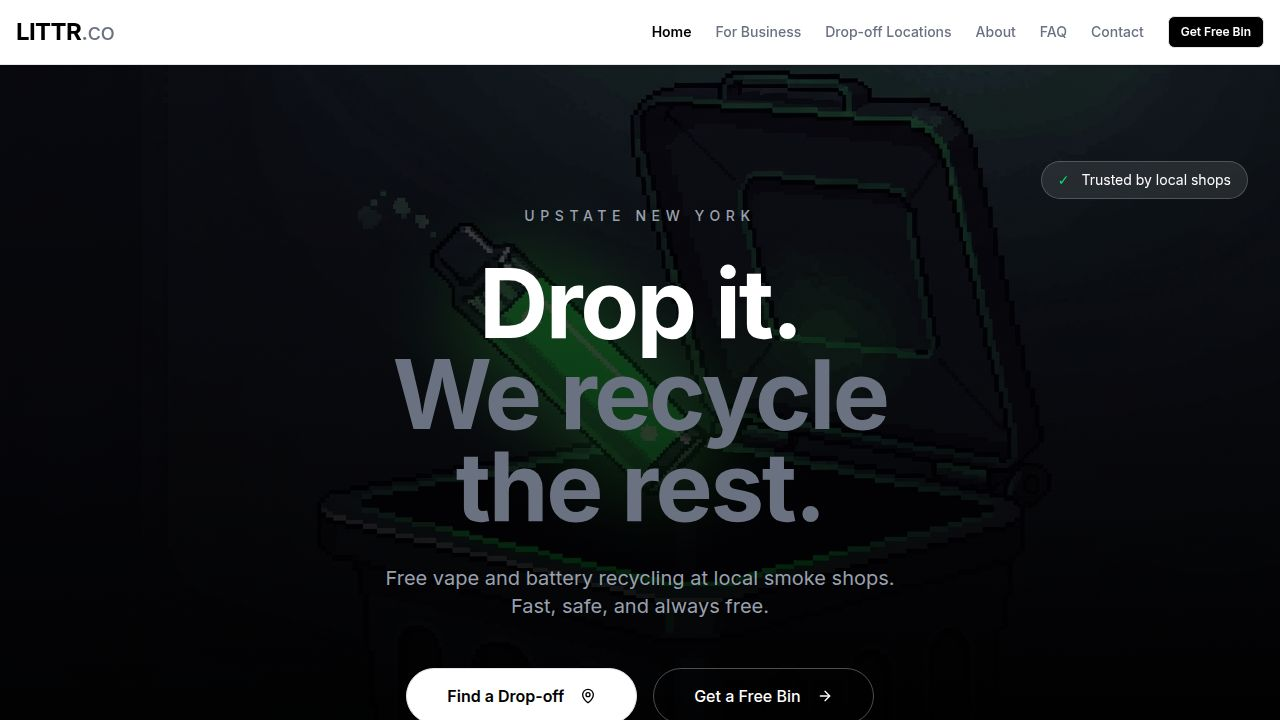
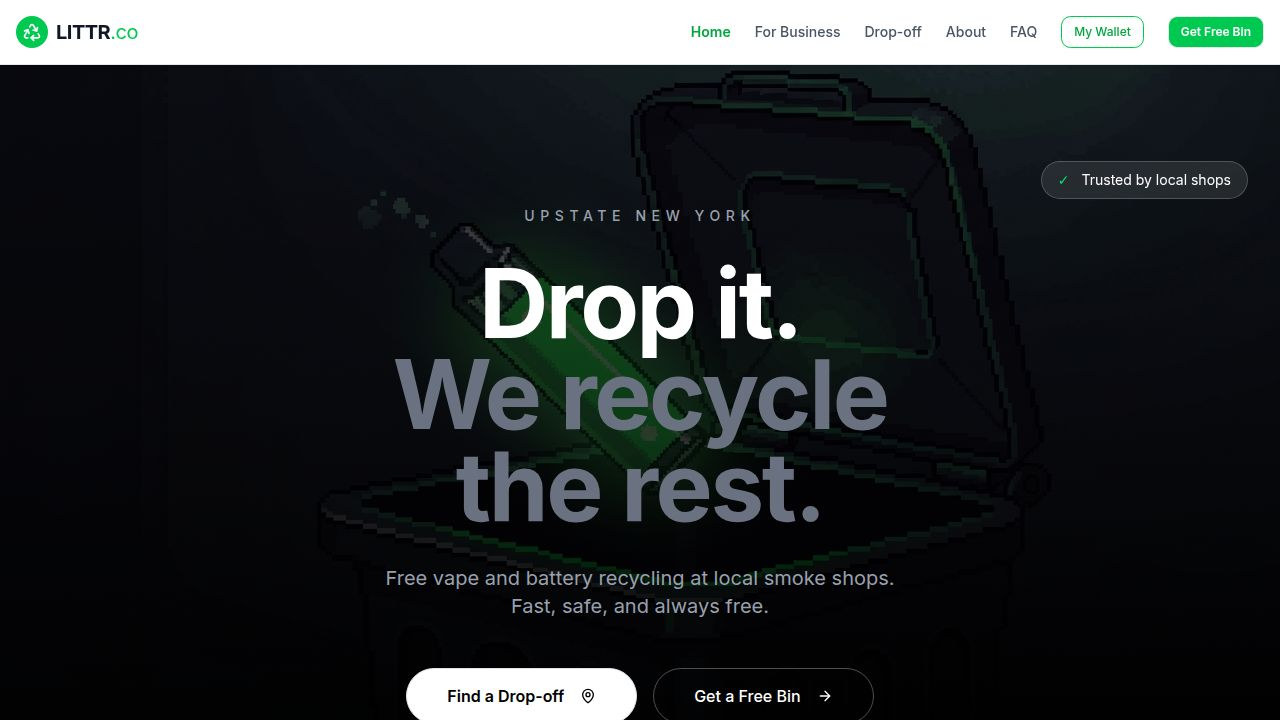
Update shop information and improve dark mode styling across dashboards
Adjusted partner shop addresses, refined dark mode color schemes for staff and partner dashboards, and optimized the customer dashboard layout and points display.

Replit-Commit-Author: Agent
Replit-Commit-Session-Id: 6dbdc73e-507c-4d33-bb99-c521a1415f4b
Replit-Commit-Checkpoint-Type: intermediate_checkpoint
Replit-Commit-Event-Id: 8e2d9b1c-44c5-4e55-bf79-a29e270138a3
Replit-Commit-Screenshot-Url: https://storage.googleapis.com/screenshot-production-us-central1/90d26e03-2b98-43a8-bfaa-7dcc5fa7786a/6dbdc73e-507c-4d33-bb99-c521a1415f4b/kMcwf72
Replit-Helium-Checkpoint-Created: true

Changed region(s): [[0.5, 0.0, 1.0, 0.0917], [0.0, 0.0, 0.125, 0.0611]]

diff --git a/client/src/pages/partner/Dashboard.tsx b/client/src/pages/partner/Dashboard.tsx
@@ -268,9 +268,9 @@ export default function PartnerDashboard() {
           <TabsContent value="bins">
             <div className="space-y-4">
               {shopFireAlerts.filter((a: any) => !a.resolvedAt).length > 0 && (
-                <Card className="border-red-500 bg-red-50">
+                <Card className="border-red-500 !bg-red-900/30">
                   <CardHeader>
-                    <CardTitle className="flex items-center gap-2 text-red-700">
+                    <CardTitle className="flex items-center gap-2 text-red-400">
                       <Flame className="h-5 w-5 animate-pulse" />
                       Fire Alerts
                     </CardTitle>
@@ -281,21 +281,21 @@ export default function PartnerDashboard() {
                         <div 
                           key={alert.id} 
                           className={`p-3 rounded-lg ${
-                            alert.severity === 'CRITICAL' ? 'bg-red-100 border border-red-500' :
-                            alert.severity === 'HIGH' ? 'bg-red-100 border border-red-400' :
-                            'bg-orange-100 border border-orange-400'
+                            alert.severity === 'CRITICAL' ? 'bg-red-900/50 border border-red-500' :
+                            alert.severity === 'HIGH' ? 'bg-red-900/40 border border-red-400' :
+                            'bg-orange-900/40 border border-orange-400'
                           }`}
                           data-testid={`partner-fire-alert-${alert.id}`}
                         >
                           <div className="flex items-center gap-2">
-                            <AlertTriangle className="h-5 w-5 text-red-600" />
+                            <AlertTriangle className="h-5 w-5 text-red-400" />
                             <Badge variant="destructive">{alert.severity}</Badge>
-                            <span className="font-medium">{alert.bin?.name || `Bin #${alert.binId}`}</span>
+                            <span className="font-medium text-white">{alert.bin?.name || `Bin #${alert.binId}`}</span>
                             {alert.temperature && (
-                              <span className="text-sm">🌡️ {alert.temperature.toFixed(1)}°C</span>
+                              <span className="text-sm text-gray-300">🌡️ {alert.temperature.toFixed(1)}°C</span>
                             )}
                           </div>
-                          <p className="text-xs text-gray-600 mt-1">
+                          <p className="text-xs text-gray-400 mt-1">
                             Contact LITTR support immediately if you notice smoke or fire.
                           </p>
                         </div>
@@ -319,35 +319,35 @@ export default function PartnerDashboard() {
                         <div 
                           key={bin.id} 
                           className={`p-4 rounded-lg border ${
-                            bin.status === 'FIRE_ALERT' ? 'border-red-500 bg-red-50' :
-                            bin.status === 'ONLINE' ? 'border-green-200 bg-green-50' :
-                            'border-gray-200 bg-gray-50'
+                            bin.status === 'FIRE_ALERT' ? 'border-red-500 bg-red-900/30' :
+                            bin.status === 'ONLINE' ? 'border-green-500/30 bg-green-900/20' :
+                            'border-gray-600 bg-gray-800/50'
                           }`}
                           data-testid={`partner-bin-${bin.id}`}
                         >
                           <div className="flex justify-between items-start mb-3">
                             <div>
-                              <h4 className="font-semibold">{bin.name}</h4>
+                              <h4 className="font-semibold text-white">{bin.name}</h4>
                               <Badge variant={bin.status === 'ONLINE' ? 'default' : bin.status === 'FIRE_ALERT' ? 'destructive' : 'secondary'}>
                                 {bin.status}
                               </Badge>
                             </div>
-                            <div className="text-right text-sm text-gray-500">
-                              <div className="font-bold text-lg text-green-600">{bin.vapeCount || 0}</div>
-                              <div>vapes recycled</div>
+                            <div className="text-right text-sm">
+                              <div className="font-bold text-lg text-green-400">{bin.vapeCount || 0}</div>
+                              <div className="text-gray-400">vapes recycled</div>
                             </div>
                           </div>
                           
                           <div className="space-y-2">
                             <div>
-                              <div className="flex justify-between text-sm mb-1">
+                              <div className="flex justify-between text-sm mb-1 text-gray-300">
                                 <span>Fill Level</span>
                                 <span>{bin.fillLevel || 0}%</span>
                               </div>
                               <Progress value={bin.fillLevel || 0} className="h-2" />
                             </div>
                             
-                            <div className="flex gap-4 text-sm text-gray-600">
+                            <div className="flex gap-4 text-sm text-gray-400">
                               {bin.lastTemperature && (
                                 <span>🌡️ {bin.lastTemperature.toFixed(1)}°C</span>
                               )}
@@ -363,10 +363,10 @@ export default function PartnerDashboard() {
                       ))}
                     </div>
                   ) : (
-                    <div className="text-center py-8 text-gray-500">
+                    <div className="text-center py-8 text-gray-400">
                       <Trash2 className="h-12 w-12 mx-auto mb-3 opacity-30" />
                       <p>No bins linked to your shop yet.</p>
-                      <p className="text-sm">Contact LITTR to get your smart bin installed.</p>
+                      <p className="text-sm text-gray-500">Contact LITTR to get your smart bin installed.</p>
                     </div>
                   )}
                 </CardContent>

diff --git a/client/src/pages/customer/Dashboard.tsx b/client/src/pages/customer/Dashboard.tsx
@@ -91,7 +91,7 @@ export default function CustomerDashboard() {
   return (
     <div className="littr-dashboard pb-24">
       {/* Nav Bar */}
-      <div className="littr-nav px-4 py-3 safe-top">
+      <div className="littr-nav px-4 py-3 pt-[max(0.75rem,env(safe-area-inset-top))]">
         <div className="flex justify-between items-center">
           <div className="flex items-center gap-3">
             <div className="w-8 h-8 littr-gradient-green rounded-lg flex items-center justify-center">
@@ -114,24 +114,27 @@ export default function CustomerDashboard() {
         </div>
       </div>
 
-      <div className="px-4 py-6 space-y-6">
-        {/* Points Balance - Hero Card */}
-        <div className="littr-gradient-green rounded-2xl p-6 text-white relative overflow-hidden shadow-lg">
-          <div className="absolute top-0 right-0 w-32 h-32 bg-white/10 rounded-full -mr-10 -mt-10" />
-          <div className="absolute bottom-0 left-0 w-24 h-24 bg-white/10 rounded-full -ml-8 -mb-8" />
-          <div className="relative z-10">
-            <p className="text-green-100 text-sm mb-1">Your Points</p>
-            <p className="text-5xl font-bold mb-1" data-testid="text-points-balance">
-              {wallet?.pointsBalance || 0}
-            </p>
-            <p className="text-green-200 text-xs">
-              Lifetime: {wallet?.lifetimeEarned || 0} pts earned
-            </p>
-            {customer && (
-              <p className="text-green-300/60 text-xs mt-3 font-mono">
-                ID: {customer.publicId}
+      <div className="px-4 py-4 space-y-4">
+        {/* Points Balance - Compact Card */}
+        <div className="littr-gradient-green rounded-xl p-4 text-white relative overflow-hidden shadow-lg">
+          <div className="absolute top-0 right-0 w-20 h-20 bg-white/10 rounded-full -mr-6 -mt-6" />
+          <div className="flex items-center justify-between relative z-10">
+            <div>
+              <p className="text-green-100 text-xs mb-0.5">Your Points</p>
+              <p className="text-3xl font-bold" data-testid="text-points-balance">
+                {wallet?.pointsBalance || 0}
               </p>
-            )}
+            </div>
+            <div className="text-right">
+              <p className="text-green-200 text-xs">
+                Lifetime: {wallet?.lifetimeEarned || 0}
+              </p>
+              {customer && (
+                <p className="text-green-300/50 text-[10px] font-mono mt-1">
+                  {customer.publicId}
+                </p>
+              )}
+            </div>
           </div>
         </div>
 

diff --git a/client/src/pages/staff/Dashboard.tsx b/client/src/pages/staff/Dashboard.tsx
@@ -212,12 +212,12 @@ export default function StaffDashboard() {
               </div>
             </CardContent>
           </Card>
-          <Card className={stats.activeFireAlerts > 0 ? "border-red-500 bg-red-50" : ""}>
+          <Card className={stats.activeFireAlerts > 0 ? "border-red-500 !bg-red-900/30" : ""}>
             <CardContent className="pt-6">
               <div className="flex items-center gap-3">
                 <Flame className={`h-8 w-8 ${stats.activeFireAlerts > 0 ? "text-red-500 animate-pulse" : "text-gray-400"}`} />
                 <div>
-                  <p className={`text-2xl font-bold ${stats.activeFireAlerts > 0 ? "text-red-600" : ""}`}>{stats.activeFireAlerts}</p>
+                  <p className={`text-2xl font-bold ${stats.activeFireAlerts > 0 ? "text-red-400" : ""}`}>{stats.activeFireAlerts}</p>
                   <p className="text-xs text-gray-500">Fire Alerts</p>
                 </div>
               </div>
@@ -356,13 +356,13 @@ export default function StaffDashboard() {
           <TabsContent value="bins">
             <div className="space-y-4">
               {fireAlerts.length > 0 && (
-                <Card className="border-red-500 bg-red-50">
+                <Card className="border-red-500 !bg-red-900/30">
                   <CardHeader>
-                    <CardTitle className="flex items-center gap-2 text-red-700">
+                    <CardTitle className="flex items-center gap-2 text-red-400">
                       <Flame className="h-5 w-5 animate-pulse" />
                       Active Fire Alerts
                     </CardTitle>
-                    <CardDescription className="text-red-600">
+                    <CardDescription className="text-red-300/70">
                       Immediate attention required for these alerts
                     </CardDescription>
                   </CardHeader>
@@ -372,20 +372,20 @@ export default function StaffDashboard() {
                         <div 
                           key={alert.id} 
                           className={`p-4 rounded-lg border ${
-                            alert.severity === 'CRITICAL' ? 'bg-red-100 border-red-500 animate-pulse' :
-                            alert.severity === 'HIGH' ? 'bg-red-100 border-red-400' :
-                            alert.severity === 'MEDIUM' ? 'bg-orange-100 border-orange-400' :
-                            'bg-yellow-100 border-yellow-400'
+                            alert.severity === 'CRITICAL' ? 'bg-red-900/50 border-red-500 animate-pulse' :
+                            alert.severity === 'HIGH' ? 'bg-red-900/40 border-red-400' :
+                            alert.severity === 'MEDIUM' ? 'bg-orange-900/40 border-orange-400' :
+                            'bg-yellow-900/40 border-yellow-400'
                           }`}
                           data-testid={`fire-alert-${alert.id}`}
                         >
                           <div className="flex items-center justify-between">
                             <div className="flex items-center gap-3">
                               <Flame className={`h-6 w-6 ${
-                                alert.severity === 'CRITICAL' ? 'text-red-600 animate-pulse' :
-                                alert.severity === 'HIGH' ? 'text-red-500' :
-                                alert.severity === 'MEDIUM' ? 'text-orange-500' :
-                                'text-yellow-500'
+                                alert.severity === 'CRITICAL' ? 'text-red-500 animate-pulse' :
+                                alert.severity === 'HIGH' ? 'text-red-400' :
+                                alert.severity === 'MEDIUM' ? 'text-orange-400' :
+                                'text-yellow-400'
                               }`} />
                               <div>
                                 <div className="flex items-center gap-2">
@@ -404,15 +404,15 @@ export default function StaffDashboard() {
                                   >
                                     {alert.severity}
                                   </Badge>
-                                  <span className="font-semibold">{alert.bin?.name || `Bin #${alert.binId}`}</span>
-                                  <span className="text-sm text-gray-600">at {alert.shop?.name || 'Unknown Shop'}</span>
+                                  <span className="font-semibold text-white">{alert.bin?.name || `Bin #${alert.binId}`}</span>
+                                  <span className="text-sm text-gray-400">at {alert.shop?.name || 'Unknown Shop'}</span>
                                 </div>
-                                <div className="text-sm text-gray-700 mt-1">
+                                <div className="text-sm text-gray-300 mt-1">
                                   {alert.temperature !== null && (
                                     <span className="mr-3">🌡️ {alert.temperature?.toFixed(1)}°C</span>
                                   )}
                                   {alert.temperatureRise !== null && alert.temperatureRise > 0 && (
-                                    <span className="text-red-600">↑ +{alert.temperatureRise?.toFixed(1)}°C rise</span>
+                                    <span className="text-red-400">↑ +{alert.temperatureRise?.toFixed(1)}°C rise</span>
                                   )}
                                   <span className="ml-3 text-gray-500">
                                     {new Date(alert.createdAt).toLocaleString()}